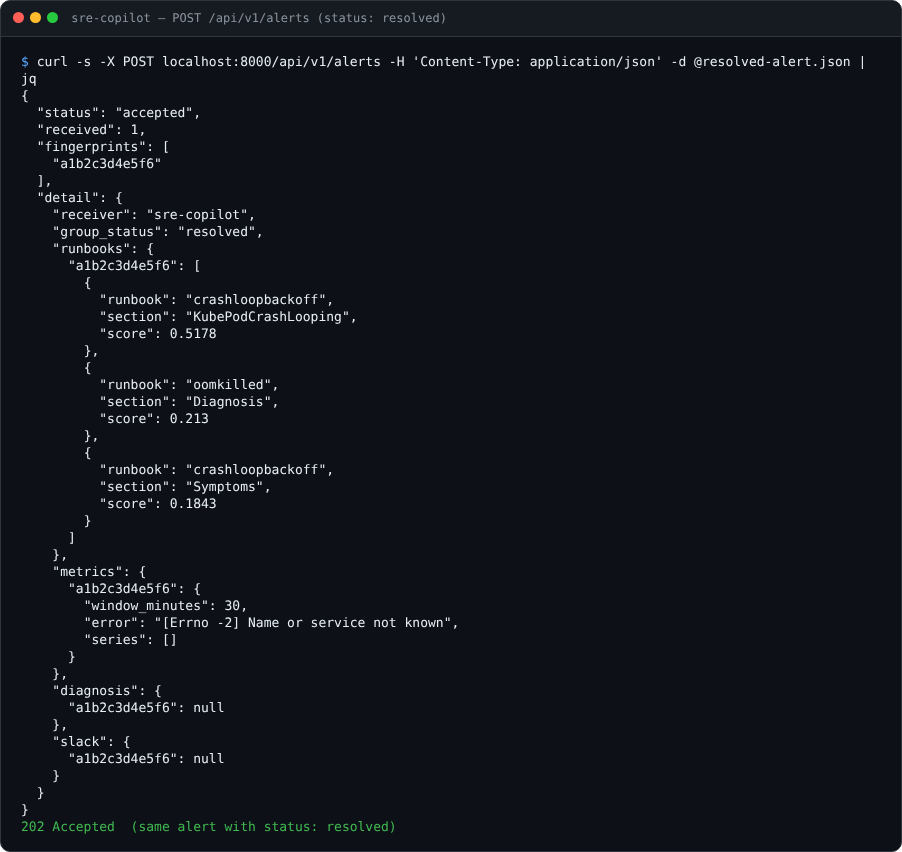
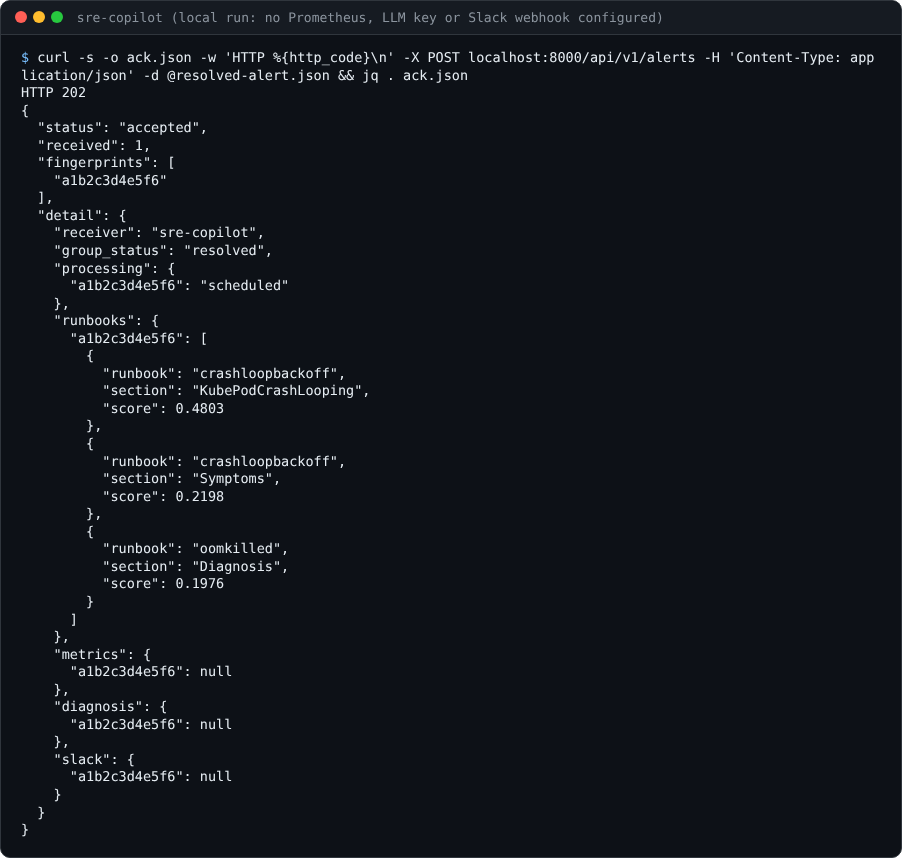
docs: regenerate webhook previews with a capture script
Screenshots 04 and 06 showed the old ack, with metrics results inside
it. The ack now has detail.processing and null slow-stage results, so
both are recaptured, and a new 07 shows GET /api/v1/alerts/{fingerprint}
with the finished results.

scripts/capture_previews.py starts the real app with default settings,
runs each displayed command with bash and renders its unmodified output
with Playwright; the command after "$" is the exact string that ran. It
can also capture the Swagger images (01, 02, 05) and the healthz one
(03).

The status code is printed by curl's own -w option instead of being
added as a caption, so everything in the terminal body is command
output. Scores differ from the old images because the sample alert's
annotations differ; they are what the hash embedder returns for it.

diff --git a/scripts/capture_previews.py b/scripts/capture_previews.py
@@ -1,0 +1,214 @@
+"""Regenerate the README preview images from a real local run.
+
+Starts ``uvicorn sre_copilot.main:app`` on 127.0.0.1:8000 with default
+settings (no LLM key, no Slack webhook, Prometheus at the default
+``http://prometheus:9090``, which does not resolve locally). Each terminal
+image runs its command with ``bash -c`` and renders the captured stdout and
+stderr unmodified; the command shown after ``$`` is the exact string that
+ran. Swagger images are screenshots of the running server's ``/docs``.
+
+Usage (needs curl and jq on PATH):
+
+    pip install playwright==1.56.0 && playwright install chromium
+    python scripts/capture_previews.py            # every image
+    python scripts/capture_previews.py 04 07      # only some
+"""
+
+import html
+import json
+import os
+import shutil
+import subprocess
+import sys
+import tempfile
+import time
+import urllib.request
+from pathlib import Path
+
+from playwright.sync_api import Page, sync_playwright
+
+ROOT = Path(__file__).resolve().parents[1]
+OUT = ROOT / "docs" / "screenshots"
+BASE = "http://127.0.0.1:8000"
+FINGERPRINT = "a1b2c3d4e5f6"
+
+
+def sample_alert(status: str) -> dict:
+    return {
+        "version": "4",
+        "status": status,
+        "receiver": "sre-copilot",
+        "groupLabels": {"alertname": "KubePodCrashLooping"},
+        "alerts": [
+            {
+                "status": status,
+                "labels": {
+                    "alertname": "KubePodCrashLooping",
+                    "namespace": "payments",
+                    "pod": "payments-api-6d9f7c8b5-x2v4k",
+                    "severity": "critical",
+                },
+                "annotations": {
+                    "summary": "Pod payments/payments-api-6d9f7c8b5-x2v4k is crash looping"
+                },
+                "startsAt": "2026-07-31T02:14:03Z",
+                "fingerprint": FINGERPRINT,
+            }
+        ],
+    }
+
+
+TERMINAL_CSS = """
+body { margin: 0; background: #ffffff; }
+.win { width: 900px; background: #0d1117; border: 1px solid #30363d;
+       border-radius: 10px; overflow: hidden; font-family: 'DejaVu Sans Mono', monospace; }
+.bar { background: #161b22; padding: 9px 14px; color: #8b949e; font-size: 13px;
+       border-bottom: 1px solid #30363d; }
+.dot { display: inline-block; width: 12px; height: 12px; border-radius: 50%; margin-right: 6px;
+       vertical-align: -1px; }
+pre { margin: 0; padding: 14px 20px 18px; color: #e6edf3; font-size: 13.5px; line-height: 1.3;
+      white-space: pre-wrap; word-break: break-all; font-family: inherit; }
+.prompt { color: #79c0ff; }
+"""
+
+
+def render_terminal(page: Page, title: str, command: str, cwd: Path, out: Path) -> None:
+    """Run ``command`` in bash and screenshot its real output in a terminal frame."""
+    result = subprocess.run(
+        ["bash", "-c", command], cwd=cwd, capture_output=True, text=True, timeout=60
+    )
+    output = result.stdout + result.stderr
+    if result.returncode != 0:
+        raise RuntimeError(f"command failed ({result.returncode}): {command}\n{output}")
+    dots = "".join(
+        f'<span class="dot" style="background:{c}"></span>'
+        for c in ("#ff5f56", "#ffbd2e", "#27c93f")
+    )
+    page.set_viewport_size({"width": 902, "height": 200})
+    page.set_content(
+        f"<style>{TERMINAL_CSS}</style><div class='win'>"
+        f"<div class='bar'>{dots}&nbsp;{html.escape(title)}</div>"
+        f"<pre><span class='prompt'>$</span> {html.escape(command)}\n"
+        f"{html.escape(output.rstrip())}</pre></div>"
+    )
+    page.locator(".win").screenshot(path=str(out))
+    print(f"wrote {out.relative_to(ROOT)}")
+
+
+def wait_until(url: str, predicate, timeout: float = 30.0) -> None:
+    deadline = time.monotonic() + timeout
+    while time.monotonic() < deadline:
+        try:
+            with urllib.request.urlopen(url, timeout=2) as resp:
+                if predicate(json.load(resp)):
+                    return
+        except OSError:
+            pass
+        time.sleep(0.2)
+    raise TimeoutError(url)
+
+
+def main(selected: set[str]) -> None:
+    for tool in ("curl", "jq"):
+        if shutil.which(tool) is None:
+            sys.exit(f"{tool} is required")
+
+    def want(name: str) -> bool:
+        return not selected or name in selected
+
+    workdir = Path(tempfile.mkdtemp(prefix="sre-copilot-previews-"))
+    (workdir / "sample-alert.json").write_text(json.dumps(sample_alert("firing"), indent=2))
+    (workdir / "resolved-alert.json").write_text(json.dumps(sample_alert("resolved"), indent=2))
+
+    env = {k: v for k, v in os.environ.items() if not k.startswith("SRE_COPILOT_")}
+    env["SRE_COPILOT_CHROMA_PERSIST_DIR"] = str(workdir / "chroma")
+    server = subprocess.Popen(
+        [sys.executable, "-m", "uvicorn", "sre_copilot.main:app", "--port", "8000"],
+        cwd=ROOT,
+        env=env,
+        stdout=subprocess.DEVNULL,
+        stderr=subprocess.DEVNULL,
+    )
+    try:
+        wait_until(f"{BASE}/healthz", lambda body: body.get("status") == "ok")
+        with sync_playwright() as pw:
+            # Swagger UI loads its JS/CSS from a CDN; honour a configured proxy.
+            proxy = os.environ.get("HTTPS_PROXY") or os.environ.get("https_proxy")
+            browser = pw.chromium.launch(
+                proxy={"server": proxy, "bypass": "127.0.0.1,localhost"} if proxy else None
+            )
+            page = browser.new_page()
+            title = "sre-copilot (local run: no Prometheus, LLM key or Slack webhook configured)"
+
+            if want("01"):
+                page.set_viewport_size({"width": 1280, "height": 900})
+                page.goto(f"{BASE}/docs")
+                page.wait_for_selector(".opblock")
+                page.screenshot(path=str(OUT / "01-swagger-overview.png"))
+                print("wrote docs/screenshots/01-swagger-overview.png")
+            if want("02"):
+                page.set_viewport_size({"width": 1280, "height": 900})
+                page.goto(f"{BASE}/docs")
+                page.locator("#operations-alerts-receive_alerts_api_v1_alerts_post").click()
+                page.wait_for_selector(".opblock-body")
+                page.screenshot(path=str(OUT / "02-swagger-alerts-endpoint.png"))
+                print("wrote docs/screenshots/02-swagger-alerts-endpoint.png")
+            if want("03"):
+                render_terminal(
+                    page,
+                    "sre-copilot: GET /healthz",
+                    "curl -s localhost:8000/healthz | jq",
+                    workdir,
+                    OUT / "03-healthz.png",
+                )
+            # 07 shows the result of 04's POST, so asking for 07 also runs 04.
+            if want("04") or want("07"):
+                render_terminal(
+                    page,
+                    title,
+                    "curl -s -o ack.json -w 'HTTP %{http_code}\\n' -X POST "
+                    "localhost:8000/api/v1/alerts -H 'Content-Type: application/json' "
+                    "-d @sample-alert.json && jq . ack.json",
+                    workdir,
+                    OUT / "04-alert-ingested.png",
+                )
+            if want("07"):
+                # Not shown: wait for the background stages, then show the result.
+                wait_until(
+                    f"{BASE}/api/v1/alerts/{FINGERPRINT}", lambda body: body["state"] == "done"
+                )
+                render_terminal(
+                    page,
+                    title,
+                    f"curl -s localhost:8000/api/v1/alerts/{FINGERPRINT} | jq",
+                    workdir,
+                    OUT / "07-alert-status.png",
+                )
+            if want("06"):
+                render_terminal(
+                    page,
+                    title,
+                    "curl -s -o ack.json -w 'HTTP %{http_code}\\n' -X POST "
+                    "localhost:8000/api/v1/alerts -H 'Content-Type: application/json' "
+                    "-d @resolved-alert.json && jq . ack.json",
+                    workdir,
+                    OUT / "06-alert-resolved.png",
+                )
+            if want("05"):
+                page.set_viewport_size({"width": 1280, "height": 900})
+                page.goto(f"{BASE}/docs")
+                page.locator("#operations-health-healthz_healthz_get").click()
+                page.wait_for_selector(".opblock-body")
+                page.locator("#operations-health-healthz_healthz_get").screenshot(
+                    path=str(OUT / "05-swagger-healthz-endpoint.png")
+                )
+                print("wrote docs/screenshots/05-swagger-healthz-endpoint.png")
+            browser.close()
+    finally:
+        server.terminate()
+        server.wait(timeout=30)
+        shutil.rmtree(workdir, ignore_errors=True)
+
+
+if __name__ == "__main__":
+    main(set(sys.argv[1:]))

diff --git a/README.md b/README.md
@@ -18,13 +18,19 @@ The interactive API docs FastAPI generates automatically:
 
 ![curl GET /healthz](docs/screenshots/03-healthz.png)
 
-![A real Alertmanager-shaped webhook POSTed to /api/v1/alerts — RAG retrieval finds real runbook matches, while metrics/diagnosis/Slack degrade gracefully with no Prometheus, LLM key, or webhook configured](docs/screenshots/04-alert-ingested.png)
+![A real Alertmanager-shaped webhook POSTed to /api/v1/alerts: the 202 ack carries the runbook matches found during the request and the alert is scheduled; metrics, diagnosis and Slack run in the background, so they are null in the ack](docs/screenshots/04-alert-ingested.png)
+
+![GET /api/v1/alerts/{fingerprint} once background processing is done: the Prometheus lookup failed gracefully (no Prometheus running locally) and diagnosis/Slack are null because no LLM key or webhook is configured](docs/screenshots/07-alert-status.png)
 
 ![The GET /healthz endpoint expanded in Swagger](docs/screenshots/05-swagger-healthz-endpoint.png)
 
-![The same webhook with status: resolved — group_status flips accordingly, same pipeline](docs/screenshots/06-alert-resolved.png)
+![The same webhook with status: resolved: a resolution is a new event, so it is scheduled rather than deduplicated](docs/screenshots/06-alert-resolved.png)
 
 </details>
+
+The terminal previews are captured from a real local run by
+[`scripts/capture_previews.py`](scripts/capture_previews.py), which runs the
+command shown and renders its output unmodified.
 
 ## Project Status
 
